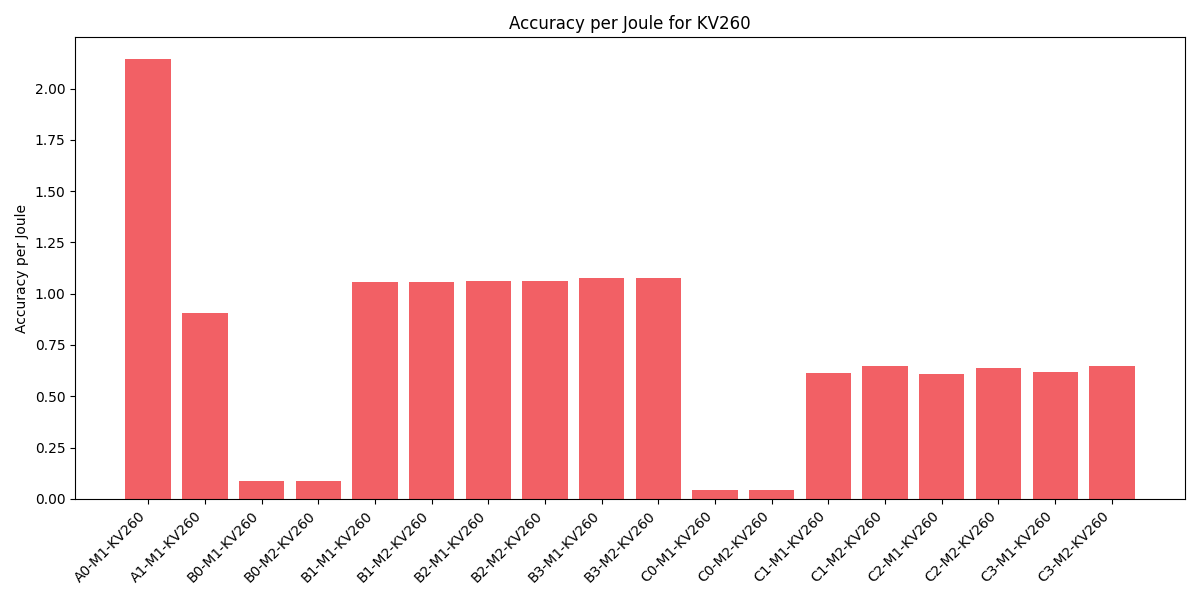
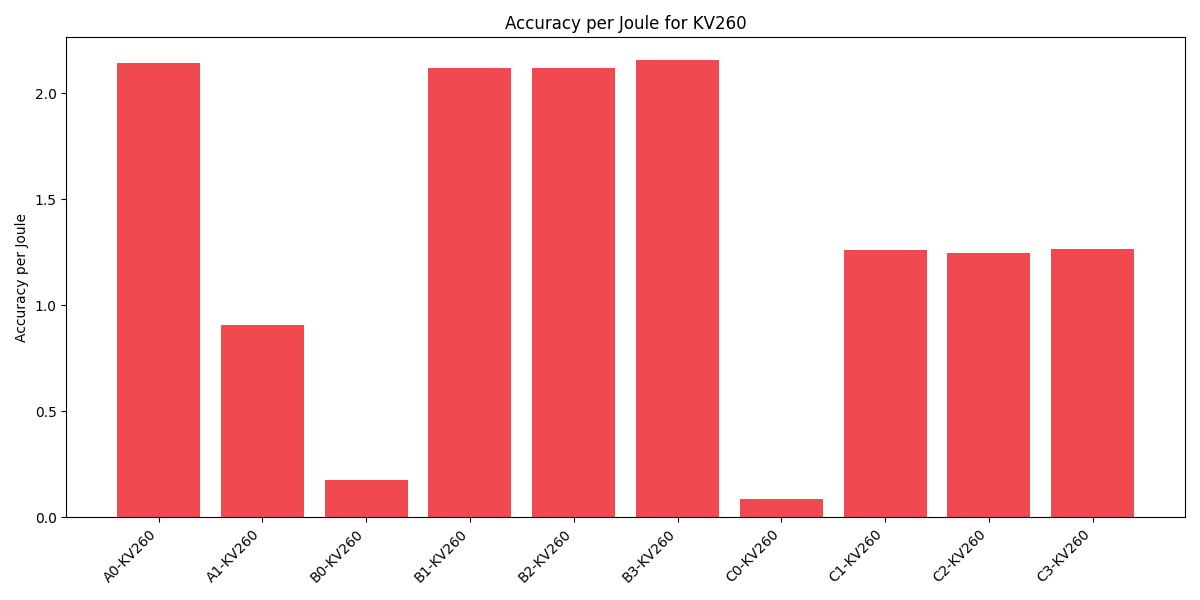
update

diff --git a/Data Analysis/plot.py b/Data Analysis/plot.py
@@ -3,6 +3,7 @@ import os
 from typing import Dict
 import matplotlib.pyplot as plt
 import matplotlib.patches as mpatches
+import numpy as np
 
 PLATFORM_COLORS = {'kv260': '#ED1C24', 'gpu': '#76B900'}
 
@@ -331,7 +332,12 @@ def plot_energy(all_results: Dict, platforms, output_path: str):
     print(f'[DEBUG] Energy plot saved to {output_path}')
 
 
-def plot_efficiency_metric(all_results: Dict, platforms, metric_name: str, output_path: str, ylabel: str, scale: float = 1.0):
+def plot_efficiency_metric(all_results: Dict, platforms, metric_name: str,
+                           output_path: str, ylabel: str, scale: float = 1.0,
+                           aggregate: str = "sum"):
+    """
+    aggregate: 'sum' ou 'mean' -> define como combinar eficiências de múltiplos modelos no mesmo teste.
+    """
 
     tests = sorted(all_results.keys())
     fig, ax = plt.subplots(figsize=(12, 6))
@@ -344,30 +350,34 @@ def plot_efficiency_metric(all_results: Dict, platforms, metric_name: str, outpu
     for p in platforms:
         for tname in tests:
             metrics = all_results[tname][p]
-            model_ids = metrics['model_ids']
             eff = metrics['efficiency'][metric_name]
+            model_ids = metrics['model_ids']
 
-            # --- lógica adaptativa ---
-            # se a métrica é "throughput_per_watt", ela é global (por teste)
-            if metric_name == 'throughput_per_watt':
-                positions.append(len(positions))
-                labels.append(f"{tname}-{p.upper()}")
-                values.append(eff * scale)
-                colors.append(PLATFORM_COLORS[p])
-
+            # --- Agregar eficiências de todos os modelos do mesmo teste ---
+            if isinstance(eff, dict):
+                eff_values = [eff[mid] for mid in model_ids if not np.isnan(eff[mid])]
+                if len(eff_values) > 0:
+                    if aggregate == "sum":
+                        eff_value = np.sum(eff_values)
+                    elif aggregate == "mean":
+                        eff_value = np.mean(eff_values)
+                    else:
+                        raise ValueError("aggregate must be 'sum' or 'mean'")
+                else:
+                    eff_value = np.nan
             else:
-                # métricas por modelo (acc_per_joule, correct_imgs_per_joule)
-                for mid in model_ids:
-                    positions.append(len(positions))
-                    labels.append(f"{tname}-M{mid}-{p.upper()}")
-                    val = eff[mid] if isinstance(eff, dict) else eff
-                    values.append(val * scale)
-                    colors.append(PLATFORM_COLORS[p])
+                eff_value = eff  # métricas globais como throughput_per_watt
 
-    ax.bar(positions, values, color=colors, alpha=0.7)
+            # --- Armazenar resultado ---
+            positions.append(len(positions))
+            labels.append(f"{tname}-{p.upper()}")
+            values.append(eff_value * scale)
+            colors.append(PLATFORM_COLORS[p])
+
+    # --- Gráfico ---
+    ax.bar(positions, values, color=colors, alpha=0.8)
     ax.set_ylabel(ylabel)
-    title = f"{ylabel} for {' vs '.join([p.upper() for p in platforms])}"
-    ax.set_title(title)
+    ax.set_title(f"{ylabel} for {' vs '.join([p.upper() for p in platforms])}")
     ax.set_xticks(positions)
     ax.set_xticklabels(labels, rotation=45, ha='right')
 
@@ -378,7 +388,7 @@ def plot_efficiency_metric(all_results: Dict, platforms, metric_name: str, outpu
     plt.tight_layout()
     plt.savefig(output_path)
     plt.close()
-    print(f'[DEBUG] Efficiency plot ({metric_name}) saved to {output_path}')
+    print(f"[DEBUG] Efficiency plot ({metric_name}) saved to {output_path}")
 
 
 def plot_all_data(all_results, output_dir: str):
